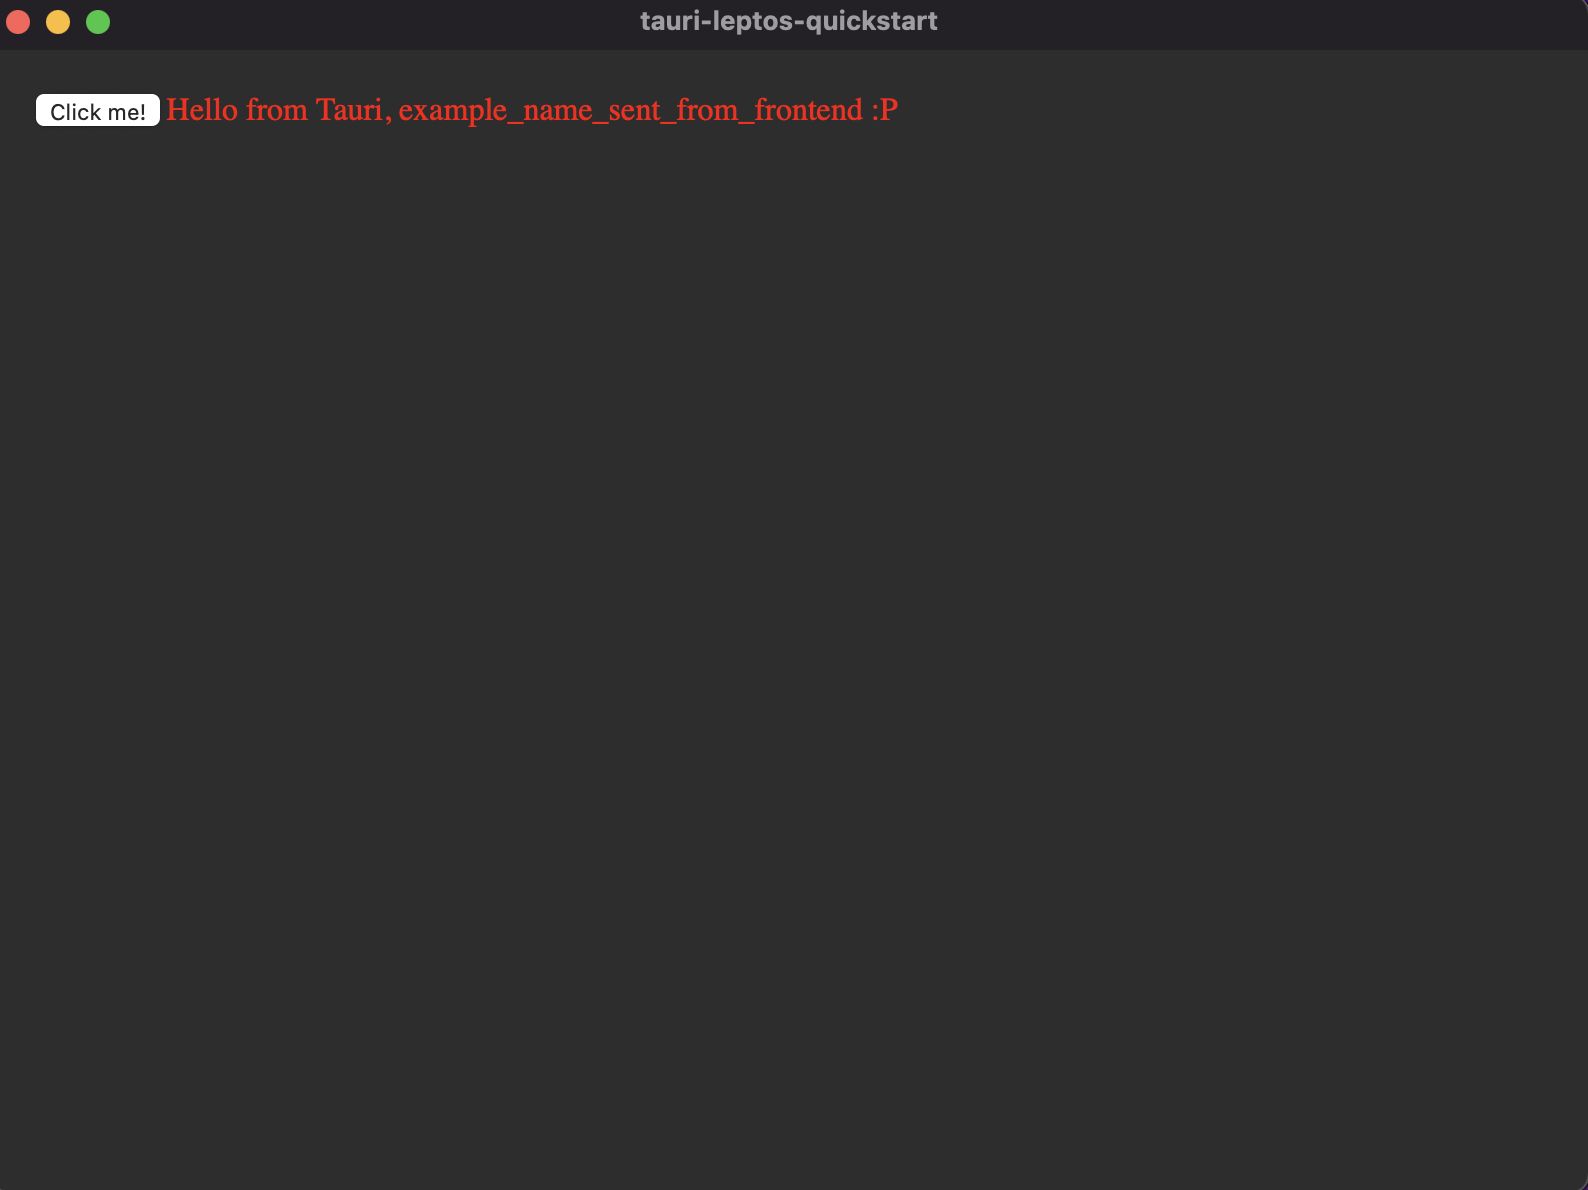
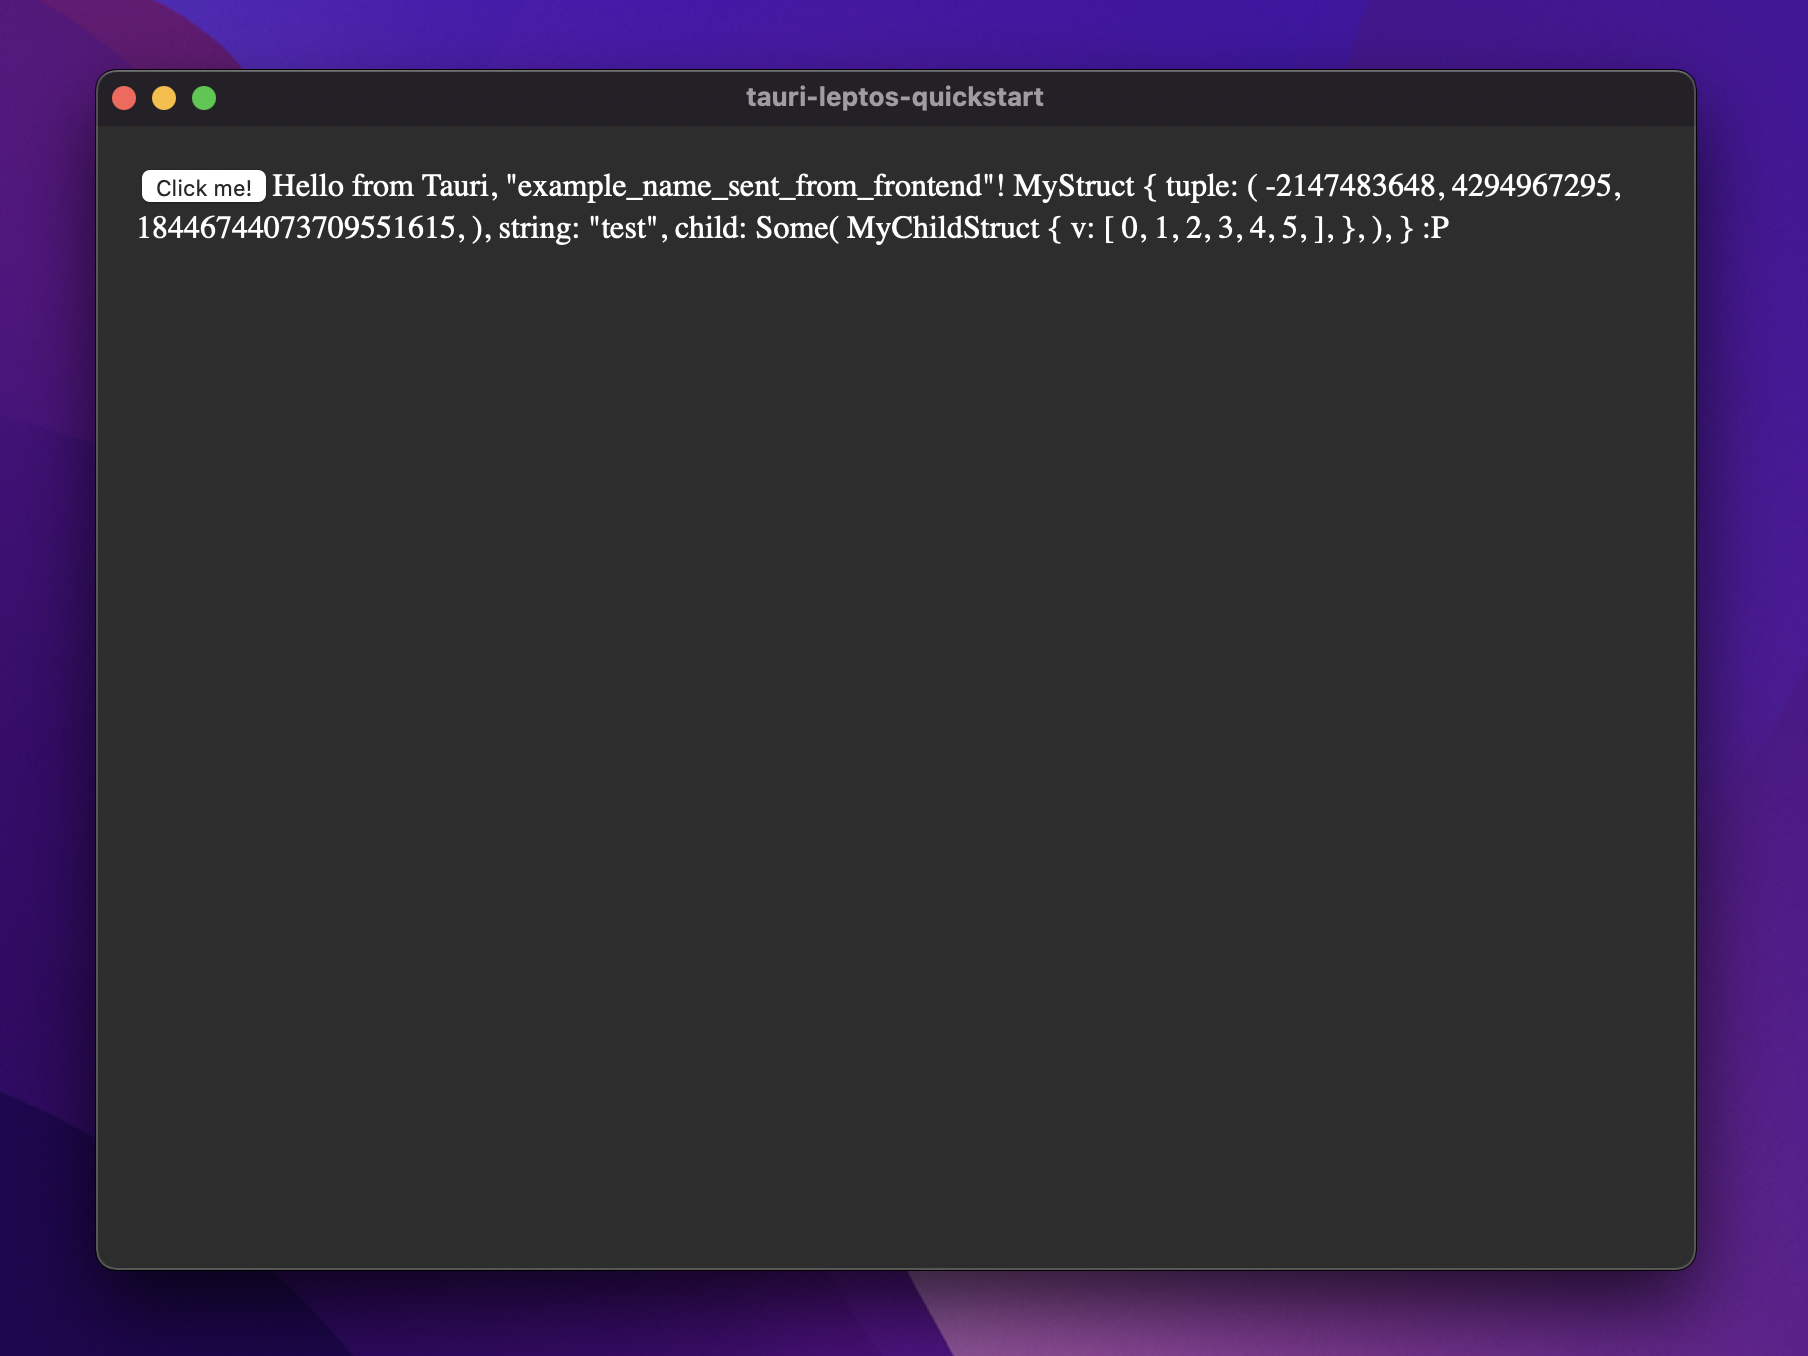
readme

Changed region(s): [[0.0, 0.0, 1.0, 1.0]]

diff --git a/README.md b/README.md
@@ -2,35 +2,47 @@
  a proc macro for interfacing between rust frontends (e.g., [leptos](https://github.com/gbj/leptos)) and [tauri](https://github.com/tauri-apps/tauri) (i.e., a rust-based desktop-app backend). at the moment it's limited to types that implement    ```wasm_bindgen::convert::IntoWasmAbi``` :)
 
 ## Example usage
-1. create a tauri command:
+1. create a tauri command in the backend using the ***command*** macro:
    ```rust
    use tauri_glue::*;
-   
-   ...
-   
-   #[tauri::command]
-   fn hello(name: &str) -> Result<String, String> {
-     Ok(format!("Hello from Tauri, {name} :P"))
+
+   #[tauri_glue::command]
+   fn hello(name: String, test_struct: MyStruct) -> Result<String, String> {
+       Ok(format!(
+           "Hello from Tauri, {:?}! {:#?} :P",
+           name, test_struct
+       ))
    }
    ```
-2. in the frontend, include the dependency:
+2. in the frontend and backend, include the dependency:
    ```toml
    tauri-glue = { git = "https://github.com/DPM97/tauri-glue" }
    ```
-3. before calling the command, create the bindings:
+3. in the frontend, create a binding to the backend command using the ***bind_command*** macro:
    ```rust
+   use tauri_glue::*;
+
    #[tauri_glue::bind_command(name = hello)]
-   pub async fn hello(name: String) -> Result<JsValue, JsValue>;
+   pub async fn hello(name: String, test_struct: MyStruct) -> Result<String, String>;
    ```
-4. interface with the command like normal
+4. call the binding
    ```rust
-   match hello("example_name_sent_from_frontend".to_string()).await {
-     Ok(resp) => {
-         ...
-     }
-     Err(e) => {
-         ...
-     }
-   }
+    match hello("example_name_sent_from_frontend".to_string(), MyStruct { 
+        tuple: (i32::MIN, u32::MAX, u64::MAX), 
+        string: "test".to_string(),
+        child: Some(MyChildStruct {
+            v: vec![0, 1, 2, 3, 4, 5]
+        })
+    }).await {
+        Ok(message) => {
+            set_name.update(|name| *name = message);
+        }
+        Err(e) => {
+            let window = window().unwrap();
+            window
+                .alert_with_message(&format!("Error: {:?}", e))
+                .unwrap();
+        }
+    }
    ```
 5. ![example](./example.png)
